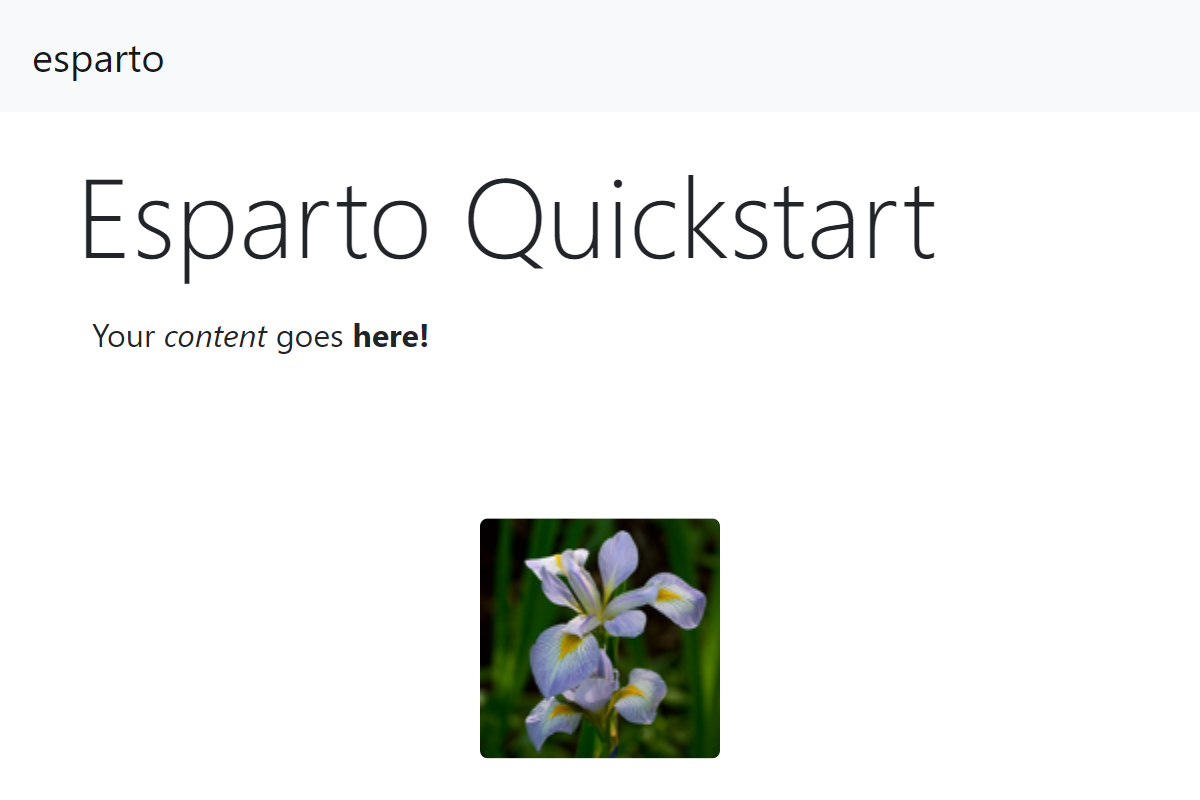
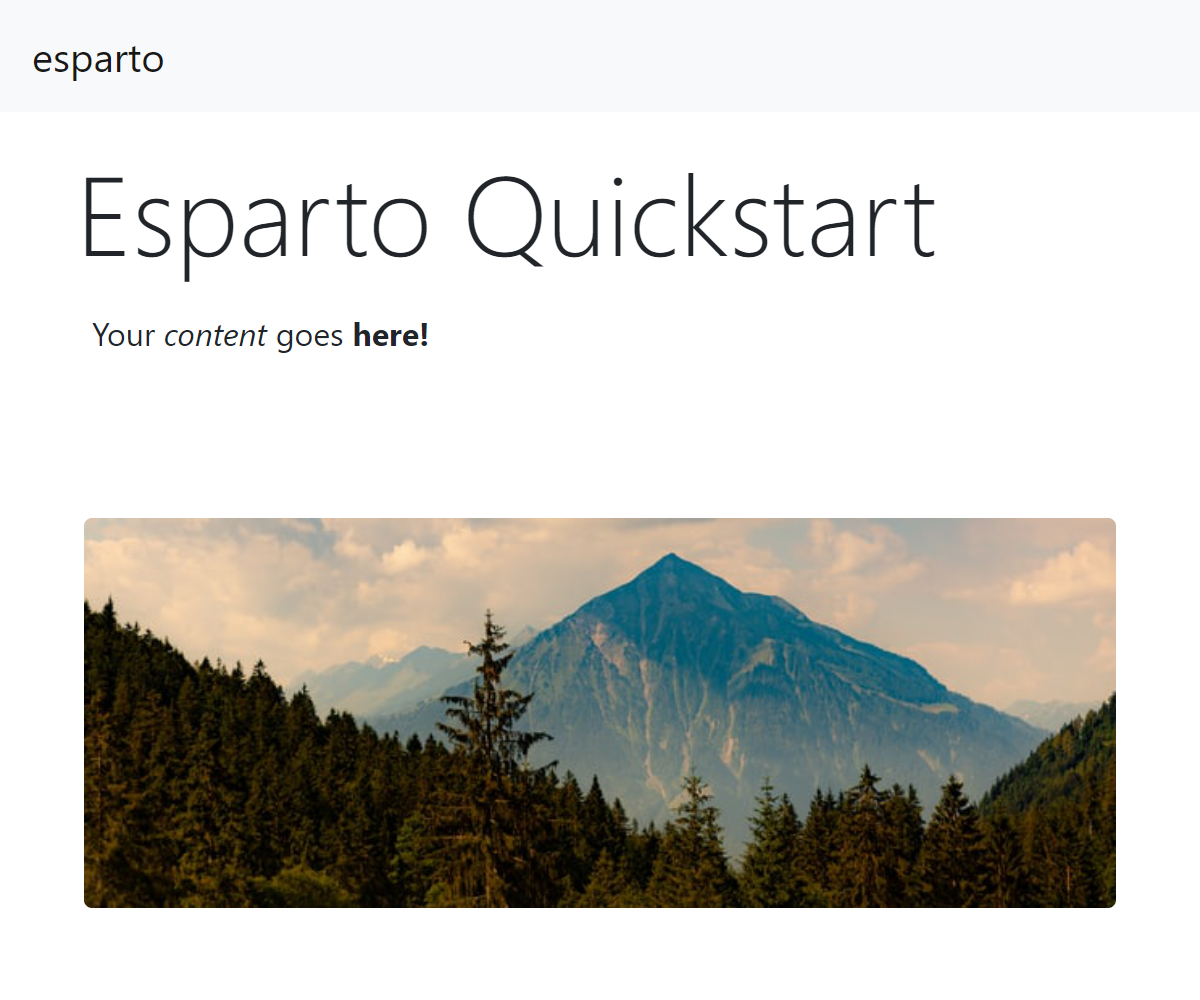
Update documentation (#16)

diff --git a/README.md b/README.md
@@ -6,10 +6,10 @@ esparto
 [![codecov](https://codecov.io/gh/domvwt/esparto/branch/main/graph/badge.svg?token=35J8NZCUYC)](https://codecov.io/gh/domvwt/esparto)
 [![Quality Gate Status](https://sonarcloud.io/api/project_badges/measure?project=domvwt_esparto&metric=alert_status)](https://sonarcloud.io/dashboard?id=domvwt_esparto)
 
-Esparto is a minimal frontend web framework written in Python.
-It aims to be the first choice for designing self-contained documents with productivity as the main concern.
+Esparto is a super minimal frontend web framework written in Python. Its primary use is for generating shareable single page documents
+with content from popular analytics and data science libraries.
 
-Full documentation available at [domvwt.github.io/esparto/](https://domvwt.github.io/esparto/).
+Full documentation and examples at [domvwt.github.io/esparto/](https://domvwt.github.io/esparto/).
 
 ### Features
 * Lightweight API
@@ -18,3 +18,11 @@ Full documentation available at [domvwt.github.io/esparto/](https://domvwt.githu
 * Self contained / inline dependencies
 * Jupyter Notebook support
 * MIT License
+
+## Supported Content
+* Markdown text
+* Images
+* Matplotlib figures
+* Pandas DataFrames
+* Bokeh objects
+* Plotly figures

diff --git a/docs/01-getting-started/quickstart.md b/docs/01-getting-started/quickstart.md
@@ -29,7 +29,7 @@ my_page.save("esparto-quick.html")
 
 The rendered HTML document:
 
-<img src='../esparto-quickstart-screenshot.png' style='border: 1px dotted lightgrey; width: 80%; height: 80%'>
+<img src='../esparto-quickstart-screenshot.png' style='border: 1px dotted lightgrey; width: 60%; height: auto'>
 
 <br>
 
@@ -45,7 +45,7 @@ Your *content* goes **here!**
 """
 
 my_page += content_md
-my_page += "../notebooks/iris-virginica.jpg"
+my_page += "image.jpg"
 
 html = my_page.save("esparto-quick-image.html")
 ```
@@ -53,7 +53,7 @@ html = my_page.save("esparto-quick-image.html")
 
 Esparto determines that the string points to a valid image and loads the file:
 
-<img src='../esparto-image-screenshot.png' height=70% style='border: 1px dotted lightgrey; width: 80%; height: 80%'>
+<img src='../esparto-image-screenshot.png' height=70% style='border: 1px dotted lightgrey; width: 60%; height: auto%'>
 
 <br>
 

diff --git a/docs/index.md b/docs/index.md
@@ -1,6 +1,6 @@
 # Welcome
-Esparto is a minimal frontend web framework written in Python.
-It aims to be the first choice for designing self-contained documents with productivity as the main concern.
+Esparto is a super minimal frontend web framework written in Python. Its primary use is for generating shareable single page documents
+with content from popular analytics and data science libraries.
 
 ## Overview
 The library provides a streamlined API that lets users define their page in terms of
@@ -26,10 +26,7 @@ and iteratively build documents without disrupting their workflow.
 * Self contained / inline dependencies
 * MIT License
 
-
-## Integrations
-The following content types are currently supported
-
+## Supported Content
 * Markdown text
 * Images
 * Matplotlib figures

diff --git a/docs/02-user-guide/examples.md b/docs/02-user-guide/examples.md
@@ -27,7 +27,7 @@ with few lines of code.
 With the [Plotly backend for Pandas](https://plotly.com/python/pandas-backend/)
 we can access the Plotly Express API directly from the '.plot()' method of any DataFrame or Series.
 
-This example will show basic examples from each library:
+This notebook shows basic examples from each library:
 
 * Interactive plotting with Bokeh and Plotly
 * Adding interactive content to the page
